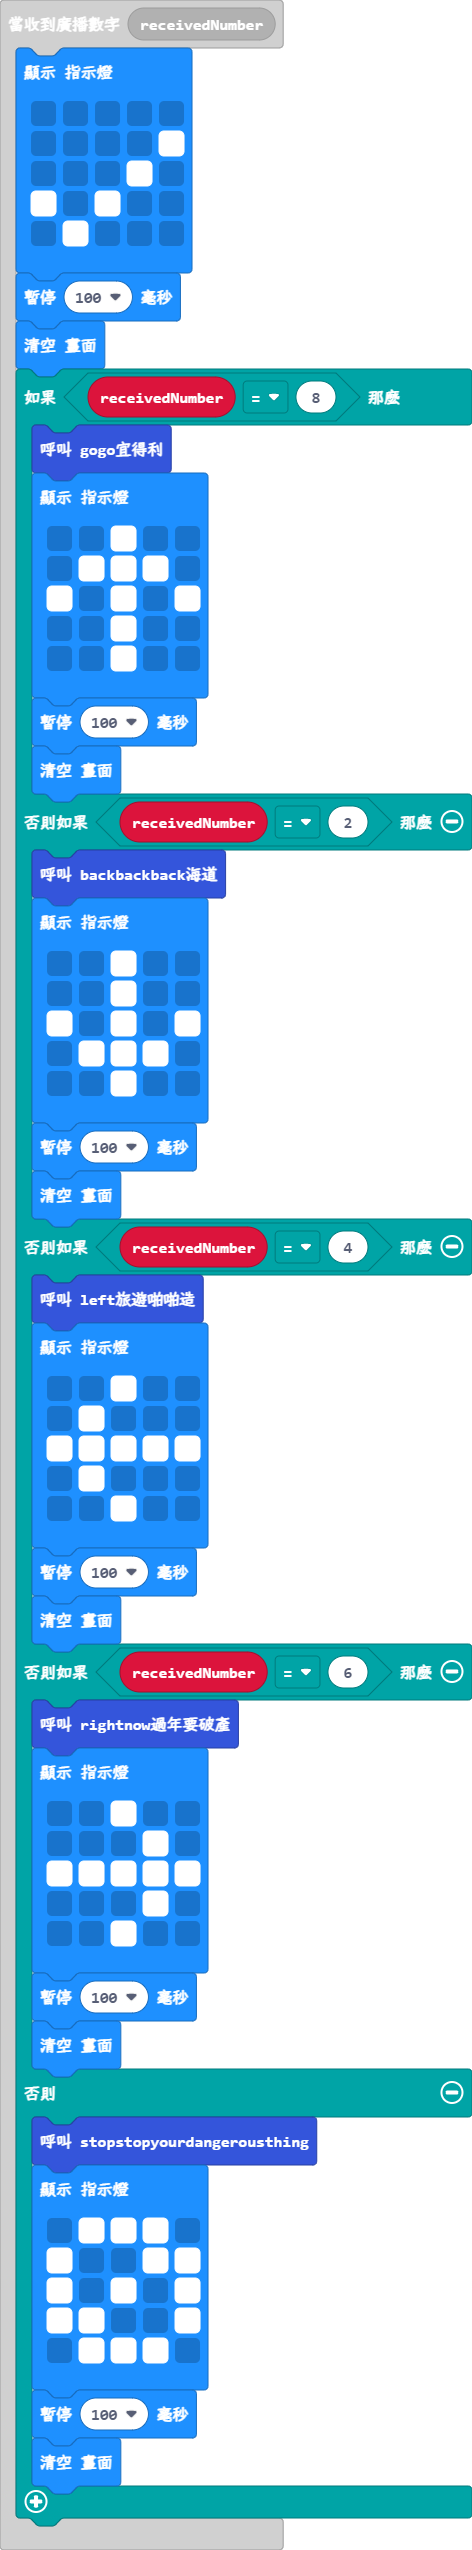
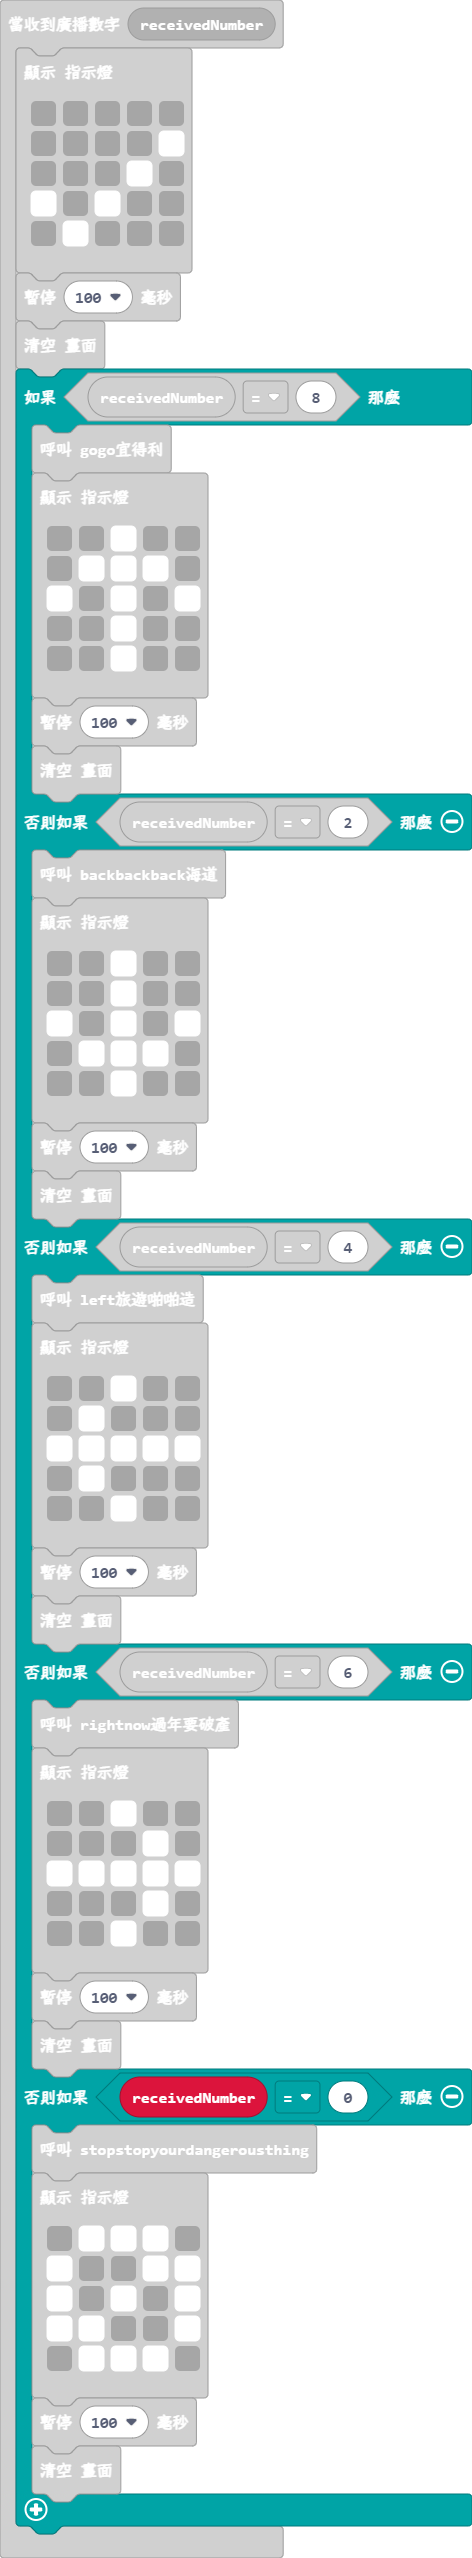
更新 main.blocks, main.ts

diff --git a/main.ts b/main.ts
@@ -67,7 +67,7 @@ radio.onReceivedNumber(function (receivedNumber) {
             `)
         basic.pause(100)
         basic.clearScreen()
-    } else {
+    } else if (receivedNumber == 0) {
         stopstopyourdangerousthing()
         basic.showLeds(`
             . # # # .
